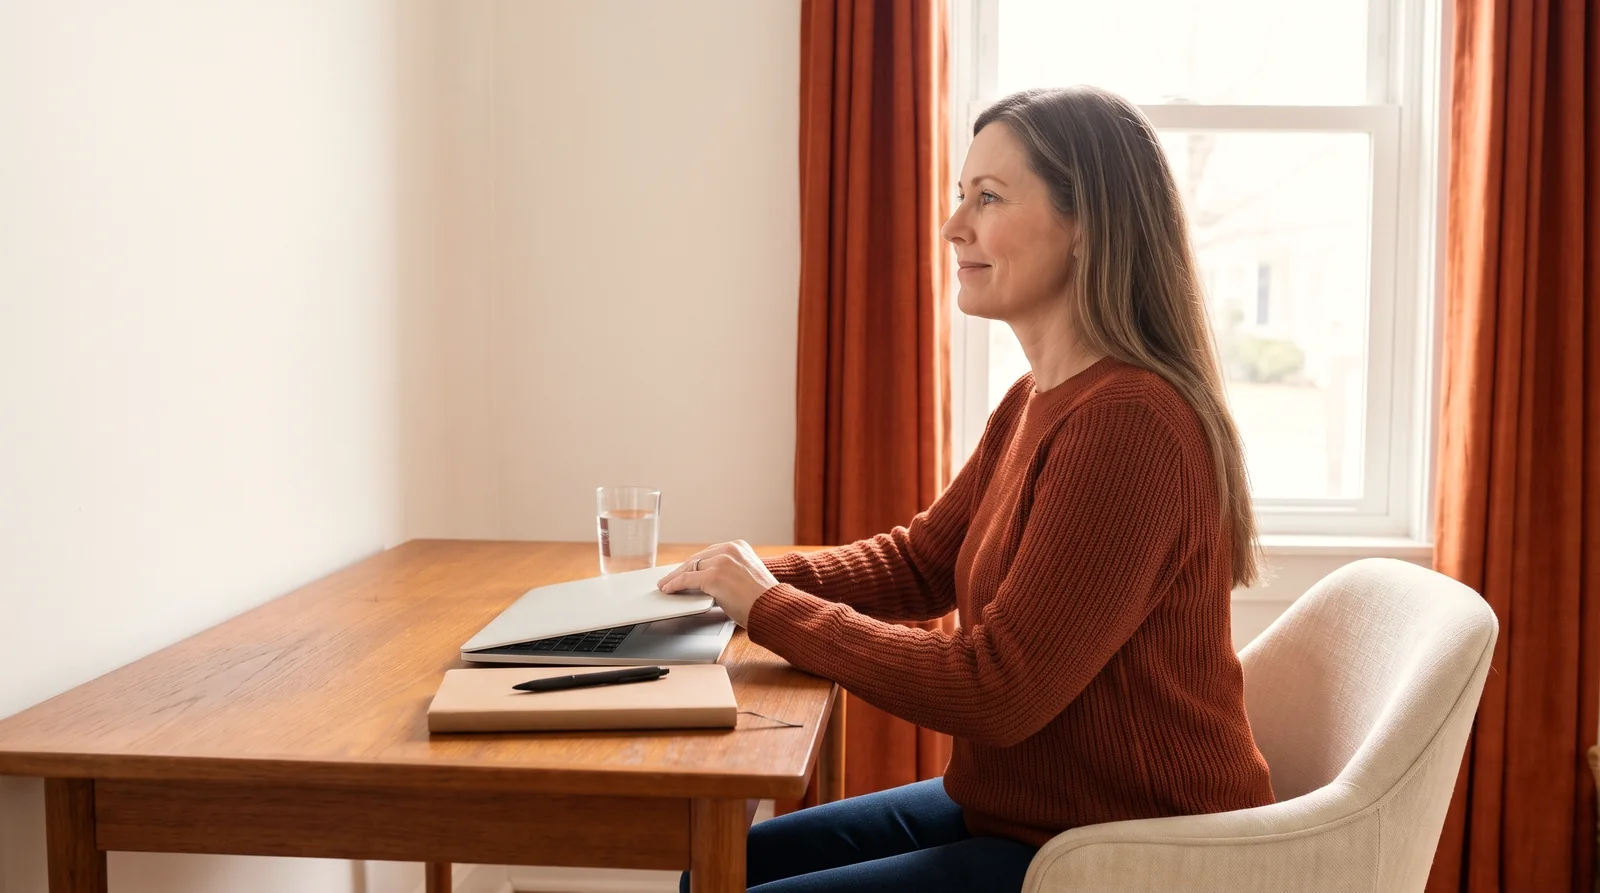
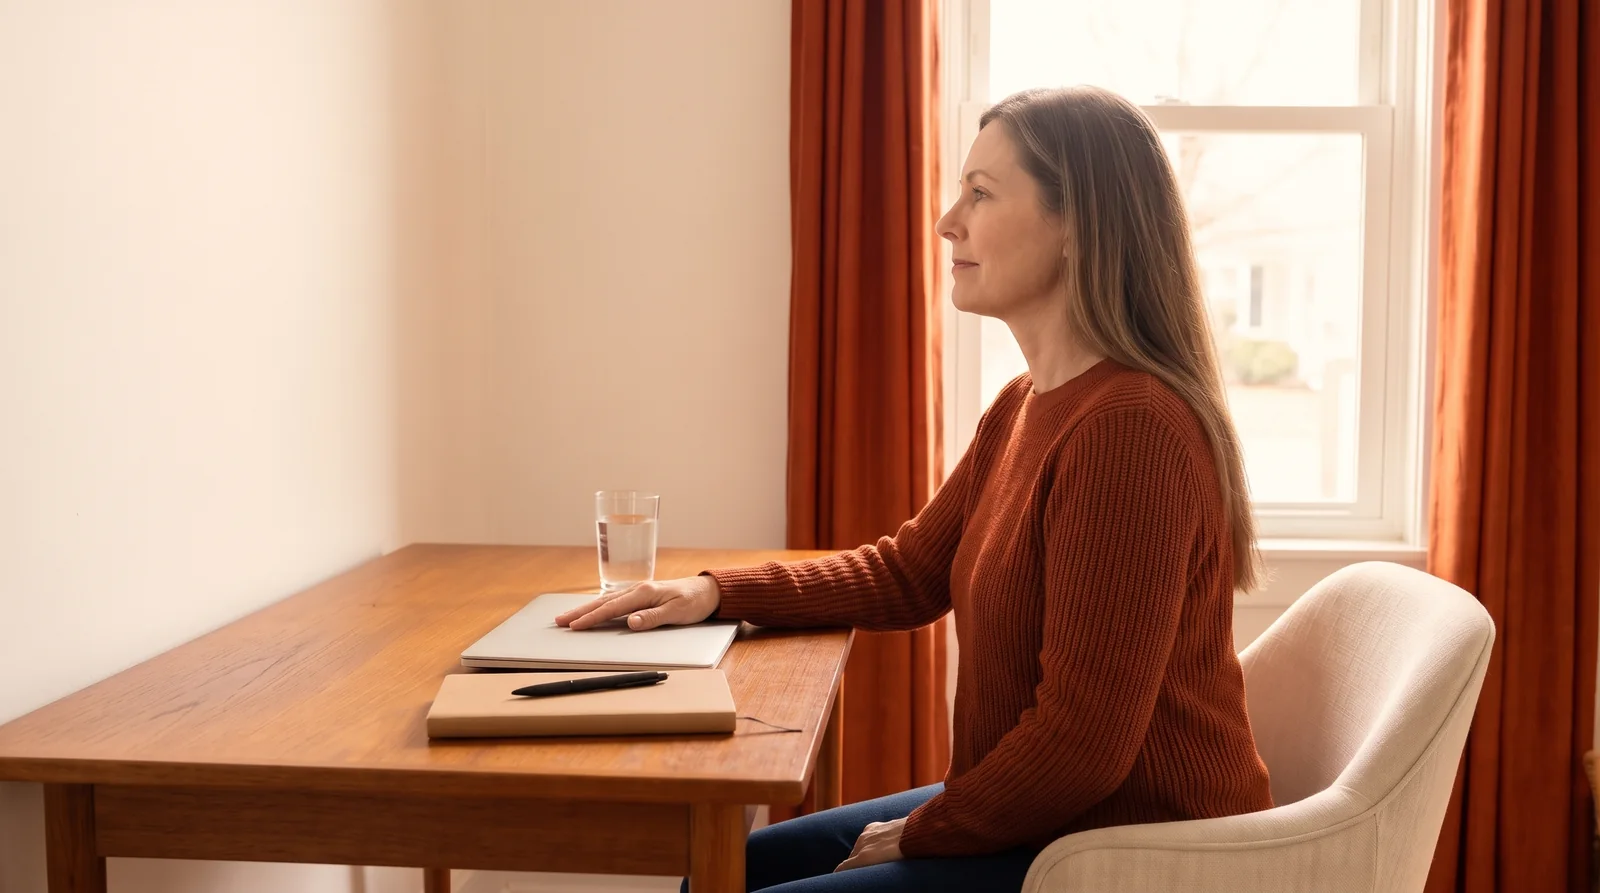
photos: 1099-k-threshold-2026 recheck fixes

diff --git a/blog-pipeline/photos-completed/1099-k-threshold-2026.md b/blog-pipeline/photos-completed/1099-k-threshold-2026.md
@@ -36,3 +36,6 @@ note: "Cream room with rust curtains, woman with long dark-blonde hair in a rust
 - image_url: https://scan.ismyhometoxic.com/blog-images/1099kthresh-freedom-v1.webp
 - placement: final image before the closing CTA
 - completed: 2026-11-19T15:13:00
+
+## Recheck (Photo Claude) 2026-11-20
+Recheck: Freedom redone on a residential street with no signs; turning point faces the window; belonging in a white kitchen with no mugs.
